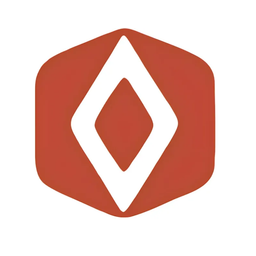
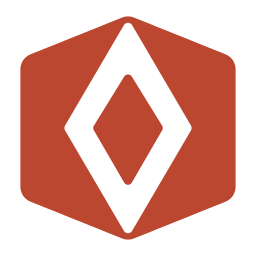
Use the new Best of Exports emblem as the BOE One mark (#312)
* Give BOE One its own mark

New app mark: the two bracket-chevrons of the Best of Exports logo with a
"1" where the diamond sat. Replaces the sidebar icon, favicon, app icon and
the PWA icons (which were a plain "B"). The full and white Best of Exports
logos are unchanged: they are the company logo on PI/quotation PDFs, the
login page and the loader.

* Base the BOE One mark on the new Best of Exports emblem

Rounded hexagon, white diamond ring and a "1" in the inner diamond,
replacing the earlier bracket-chevron version. Same files as before.

* Use the new Best of Exports emblem as the BOE One mark

Redrawn to the emblem's measured proportions (rounded hexagon, white
diamond ring, inner diamond); no numeral, which was unreadable at tab-icon
size. The name "BOE One" is carried by the wordmark beside it.

* Show the new full logo on the login page and the loader

New file boe-one-logo-full.png (the new Best of Exports logo, cropped with a
transparent background). The old boe-logo-full.png and boe-logo-white.png
are untouched: PI and quotation PDFs still read them.

* Print the new logo on PI and quotation PDFs

The new logo is stacked, so a horizontal lockup (emblem + wordmark, built
from the same artwork) is added for the PDF header, which is a fixed 44pt
tall. Both PDF routes and the quotation builder read it; boe-logo-full.png
and boe-logo-white.png are now unused by the app.

---------

diff --git a/src/lib/showroom/quotationPdf.ts b/src/lib/showroom/quotationPdf.ts
@@ -265,7 +265,7 @@ export async function buildEnhancedPdf(
   options: BuildOptions = {},
 ): Promise<Buffer> {
   // Load BOE logo from project public assets
-  const logoPath = path.join(process.cwd(), 'public', 'branding', 'boe-logo-full.png')
+  const logoPath = path.join(process.cwd(), 'public', 'branding', 'boe-one-logo-horizontal.png')
   let logoBuffer: Buffer | null = null
   try {
     logoBuffer = await fsPromises.readFile(logoPath)
@@ -333,7 +333,7 @@ export async function buildEnhancedPdf(
     // ── Header: logo left, quotation meta right ───────────────────────────────
     let y = 40
 
-    // Logo — natural ratio ~2.65:1, rendered at height 44 → width ≈ 117
+    // Logo — natural ratio ~4:1, rendered at height 44 → width ≈ 175
     if (logoBuffer) {
       try {
         doc.image(logoBuffer, L, y, { height: 44 })

diff --git a/src/app/finance/expenses/expenseSurfaces.test.ts b/src/app/finance/expenses/expenseSurfaces.test.ts
@@ -3137,10 +3137,15 @@ describe('REGRESSION — the existing Finance and Orders surfaces are unchanged'
     // logo, icons and the self-hosted fonts (binary assets)
     'public/branding/boe-icon.png',
     'public/branding/boe-logo-full.png',
+    'public/branding/boe-one-logo-full.png',
+    'public/branding/boe-one-logo-horizontal.png',
+    'src/lib/showroom/quotationPdf.ts',
     'public/branding/boe-logo-white.png',
     'public/branding/favicon.png',
     'public/icons/icon-192.png',
     'public/icons/icon-512.png',
+    'public/icons/icon-192.svg',
+    'public/icons/icon-512.svg',
     'src/app/fonts/Inter-latin-ext-var.woff2',
     'src/app/fonts/Inter-latin-var.woff2',
     'src/app/fonts/Manrope-latin-ext-var.woff2',

diff --git a/src/components/DailyQuoteLoader.tsx b/src/components/DailyQuoteLoader.tsx
@@ -212,10 +212,10 @@ function QuoteOverlay({ visible }: { visible: boolean }) {
         <div style={{ marginBottom: '48px' }}>
           {/* eslint-disable-next-line @next/next/no-img-element */}
           <img
-            src="/branding/boe-logo-full.png"
+            src="/branding/boe-one-logo-full.png"
             alt="Best of Exports"
-            width={720}
-            height={543}
+            width={1080}
+            height={821}
             style={{ maxWidth: '168px', width: '100%', height: 'auto' }}
           />
         </div>

diff --git a/src/app/login/page.tsx b/src/app/login/page.tsx
@@ -46,10 +46,10 @@ function LoginForm() {
         <div style={{ textAlign: 'center', marginBottom: '32px' }}>
           {/* eslint-disable-next-line @next/next/no-img-element */}
           <img
-            src="/branding/boe-logo-full.png"
+            src="/branding/boe-one-logo-full.png"
             alt="Best of Exports"
-            width={720}
-            height={543}
+            width={1080}
+            height={821}
             style={{
               maxWidth: 'min(188px, 54vw)',
               height: 'auto',

diff --git a/src/app/api/orders/[id]/documents/route.ts b/src/app/api/orders/[id]/documents/route.ts
@@ -112,7 +112,7 @@ const UUID = /^[0-9a-fA-F]{8}-[0-9a-fA-F]{4}-[0-9a-fA-F]{4}-[0-9a-fA-F]{4}-[0-9a
  *  is not a failure: the renderer falls back to the wordmark. */
 async function readLogo(): Promise<Uint8Array | null> {
   try {
-    return new Uint8Array(await readFile(join(process.cwd(), 'public', 'branding', 'boe-logo-full.png')))
+    return new Uint8Array(await readFile(join(process.cwd(), 'public', 'branding', 'boe-one-logo-horizontal.png')))
   } catch {
     return null
   }

diff --git a/src/app/api/orders/[id]/pi-versions/[versionId]/pdf/route.ts b/src/app/api/orders/[id]/pi-versions/[versionId]/pdf/route.ts
@@ -39,7 +39,7 @@ const fail = (status: number, code: string, message: string) =>
 
 async function readLogo(): Promise<Uint8Array | null> {
   try {
-    return new Uint8Array(await readFile(join(process.cwd(), 'public', 'branding', 'boe-logo-full.png')))
+    return new Uint8Array(await readFile(join(process.cwd(), 'public', 'branding', 'boe-one-logo-horizontal.png')))
   } catch {
     return null
   }

diff --git a/src/lib/orders/documentsRoute.test.ts b/src/lib/orders/documentsRoute.test.ts
@@ -427,7 +427,7 @@ describe('the PDF the route produces', () => {
   })
 
   test('reads the BOE mark from the repository, and survives its absence', () => {
-    assert.ok(route.includes('boe-logo-full.png'))
+    assert.ok(route.includes('boe-one-logo-horizontal.png'))
     assert.match(raw, /A missing file\s*\n?\s*\*?\s*is not a failure/)
   })
 })
